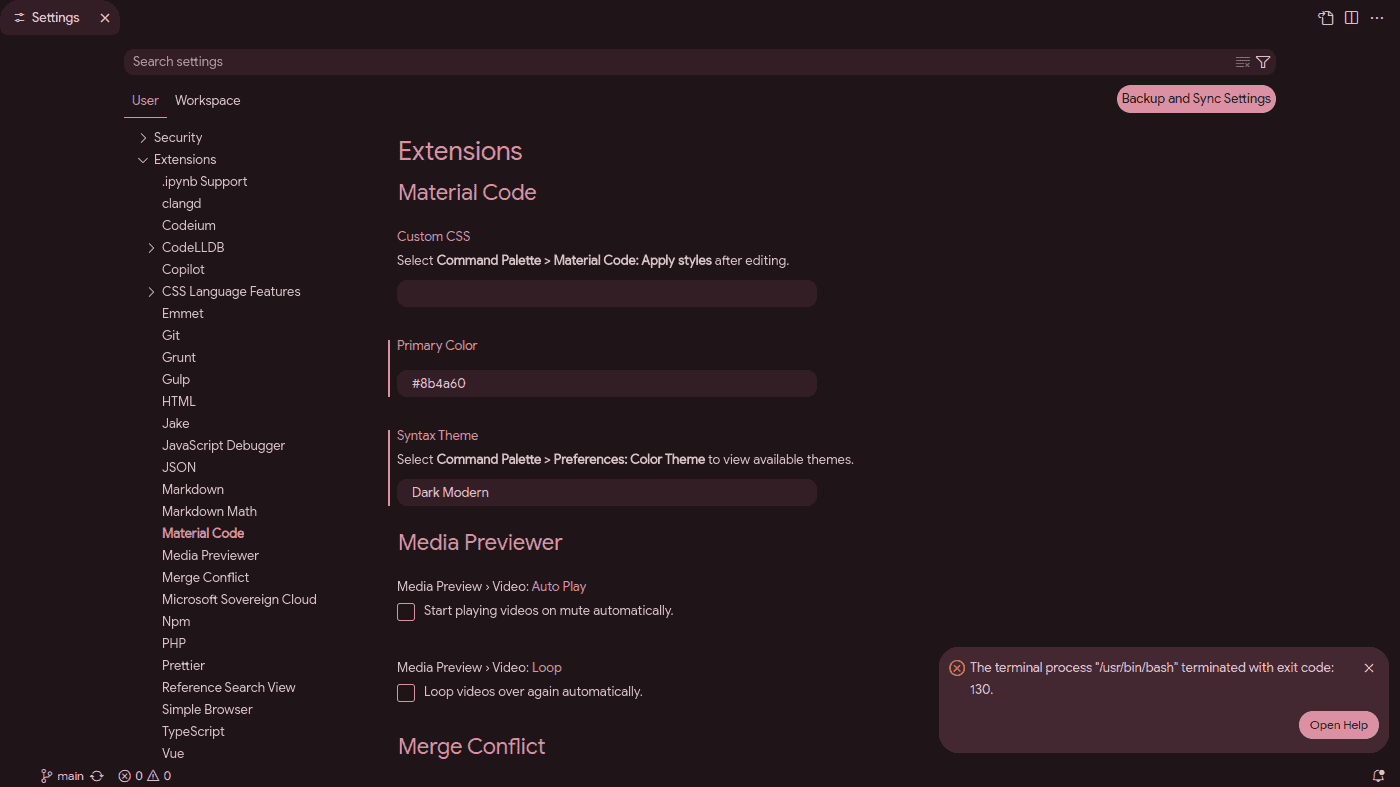
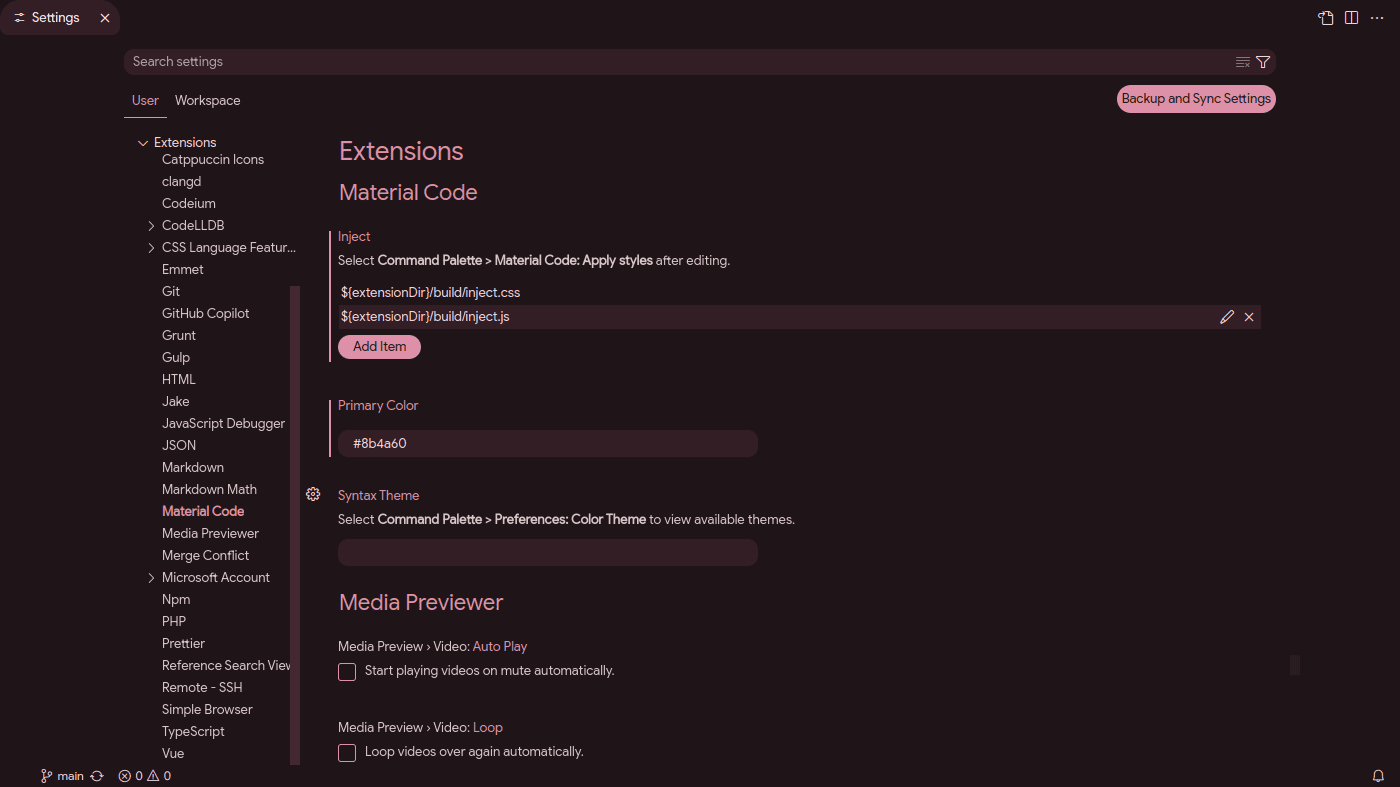
update readme

diff --git a/extension.ts b/extension.ts
@@ -154,7 +154,6 @@ export const activate = async (context: vscode.ExtensionContext) => {
       event.affectsConfiguration('material-code.primaryColor') ||
       event.affectsConfiguration('material-code.syntaxTheme')
     ) {
-      console.log('primary ', settings().get('primaryColor'))
       updateThemeVariants()
     }
   })

diff --git a/readme.md b/readme.md
@@ -1,14 +1,13 @@
 ![Material Code Editor](https://raw.githubusercontent.com/rakibdev/material-code/main/screenshots/editor.png)
 ![Material Code Settings](https://raw.githubusercontent.com/rakibdev/material-code/main/screenshots/settings.png)
-
-> Apple's SF Mono font used in screenshots
+![Material Code Settings](https://raw.githubusercontent.com/rakibdev/material-code/main/screenshots/light-theme.png)
 
 ## Features
 
 - Material You (Dark & Light).
-- Custom CSS.
 - Rounded corners.
 - Click ripple effect.
+- Inject inline CSS, JavaScript, HTML.
 - Separate syntax theme.
 - Follow system theme e.g. [Mutagen](https://github.com/InioX/matugen), [Pywal](https://github.com/dylanaraps/pywal).
 
